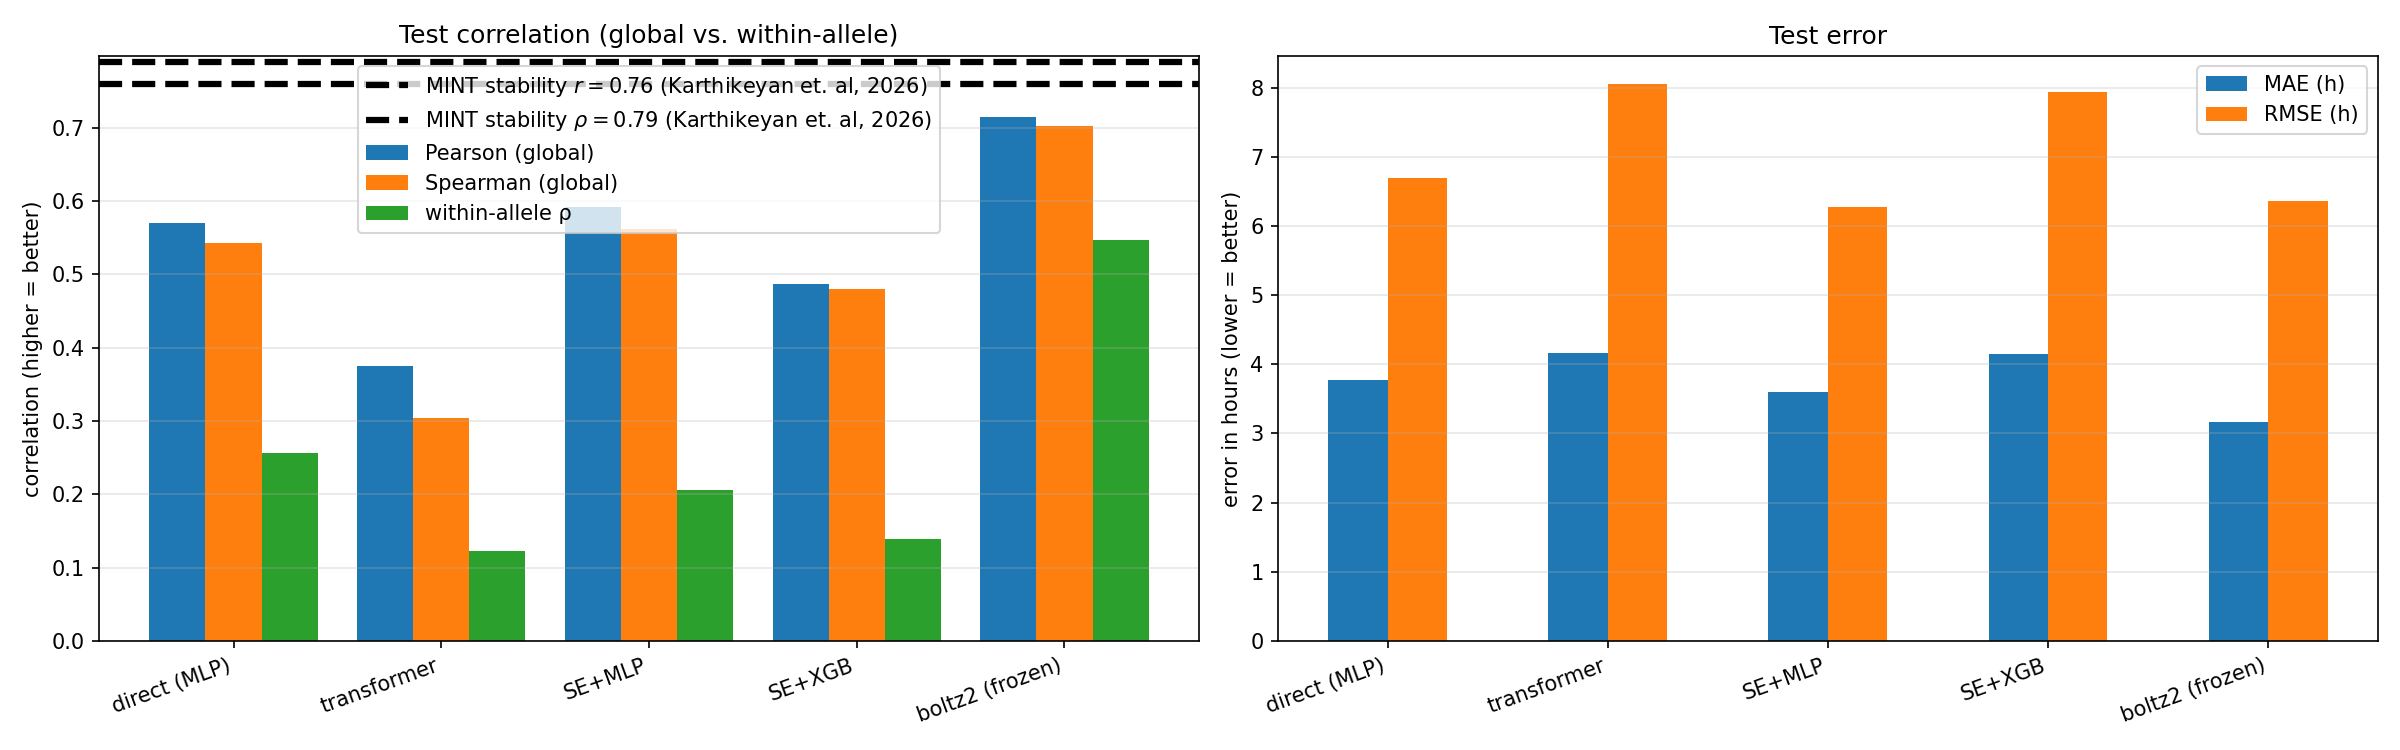
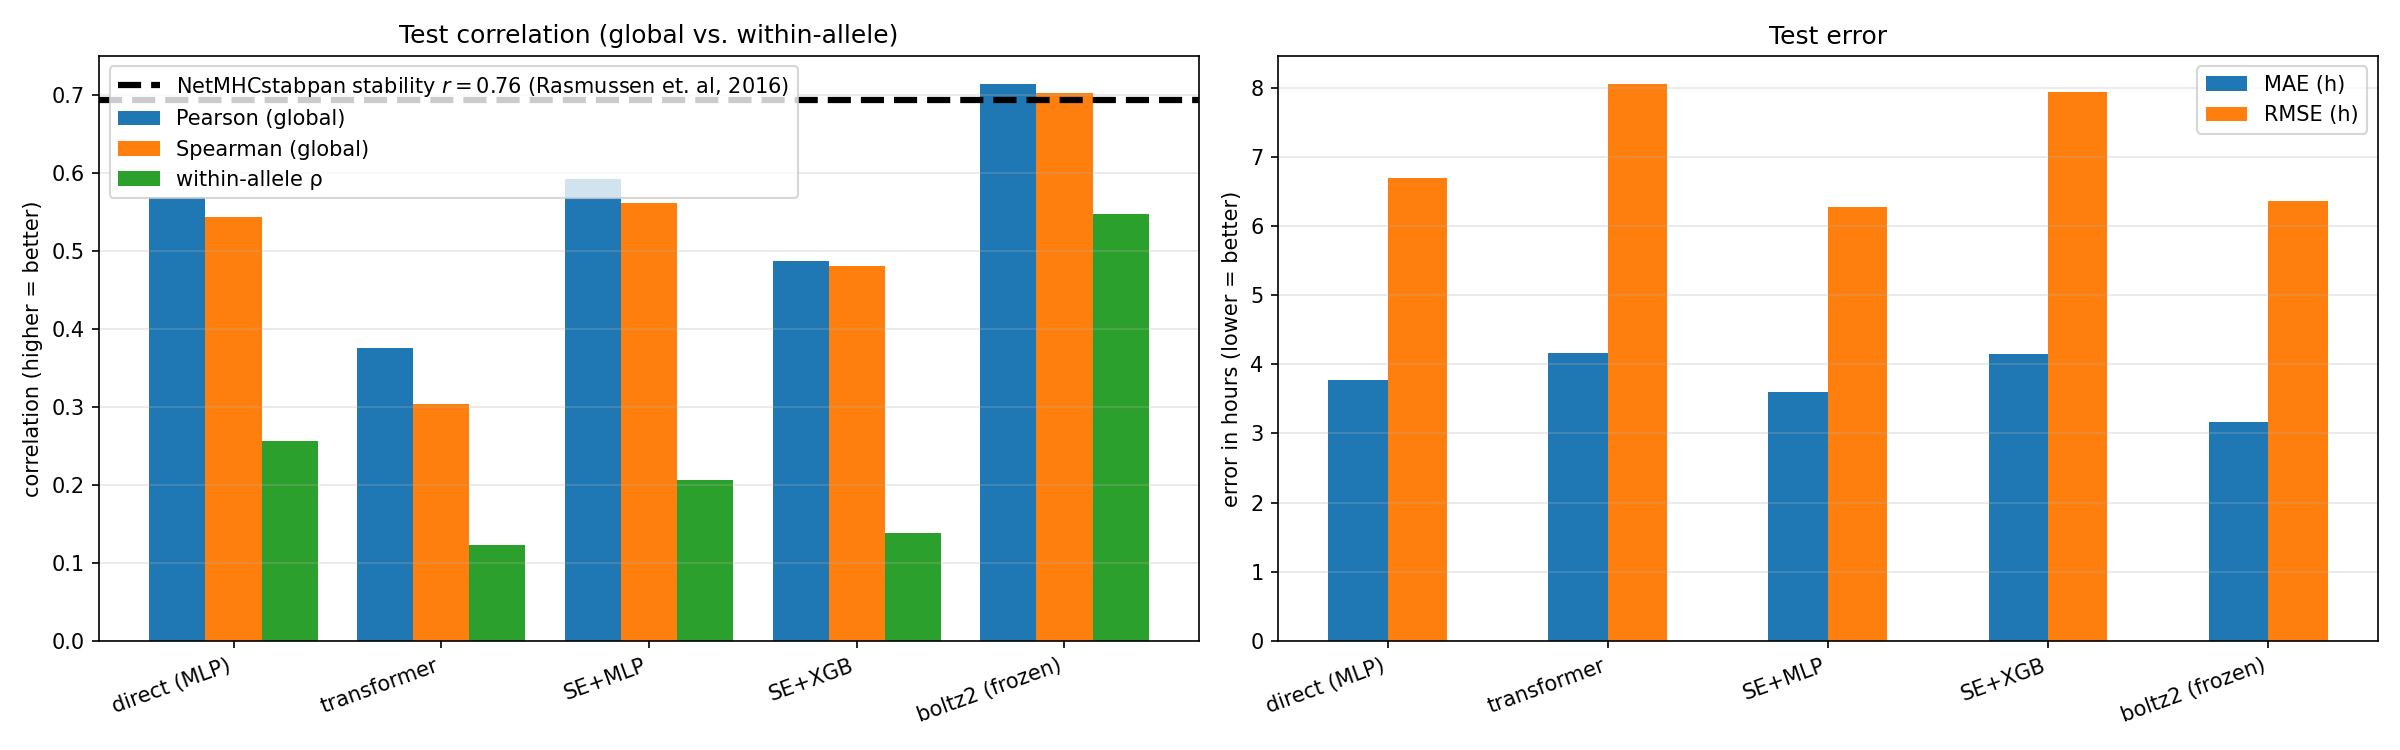
update to new reference method

diff --git a/mlp-embeds/plots.py b/mlp-embeds/plots.py
@@ -29,8 +29,7 @@ import numpy as np  # noqa: E402
 # Keyed by metric so each panel gets the comparable line; set a value to None or
 # remove the key to hide it.
 REFERENCES = {
-    "pearson": (0.76, r"MINT stability $r=0.76$ (Karthikeyan et. al, 2026)"),
-    "spearman": (0.79, r"MINT stability $ρ=0.79$ (Karthikeyan et. al, 2026)"),
+    "pearson": (0.693, r"NetMHCstabpan stability $r=0.76$ (Rasmussen et. al, 2016)"),
     # no directly-comparable published within-allele ρ, so none is drawn there
 }
 

diff --git a/README.md b/README.md
@@ -50,12 +50,12 @@ and Boltz-2 is the only one left predicting anything.
   <em>Graph comparing performance of each model on Pearson correlation across alleles and Spearman correlation within individual alleles. Dashed line indicates reference state-of-the-art methods performed on peptide-excluding splits from Karthikeyan et. al (2026).</em>
 </p>
 
-| split | held out | direct (MLP) | transformer | SE+MLP | SE+XGB | **boltz2 (frozen)** |
+| split label | held out | direct (MLP) | transformer | SE+MLP | SE+XGB | **boltz2 (frozen)** |
 |---|---|---|---|---|---|---|
 | A | nothing (shuffled) | 0.728 | 0.634 | 0.749 | 0.741 | **0.794** |
 | B | peptides | 0.696 | 0.596 | 0.712 | 0.729 | **0.761** |
 | C | alleles | 0.570 | 0.375 | 0.592 | 0.487 | **0.714** |
-| C2 | clusters | −0.065 | −0.098 | −0.108 | −0.075 | **0.425** |
+| C2 | allele clusters | −0.065 | −0.098 | −0.108 | −0.075 | **0.425** |
 
 <sub>Pearson r on held-out test, ~14,500 embedded rows spanning 75 alleles and
 22 clusters. Full table in `mlp-embeds/figs/compare/summary_test_metrics.md`.
